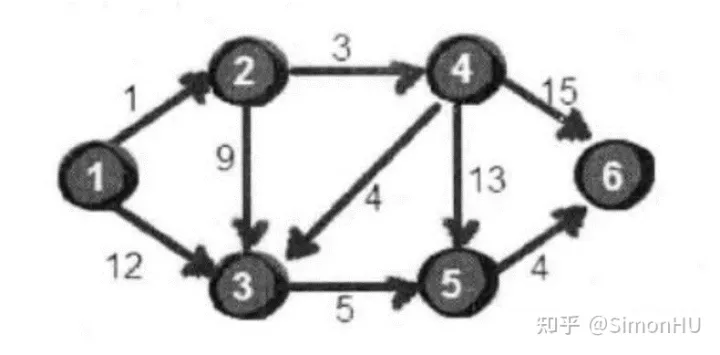
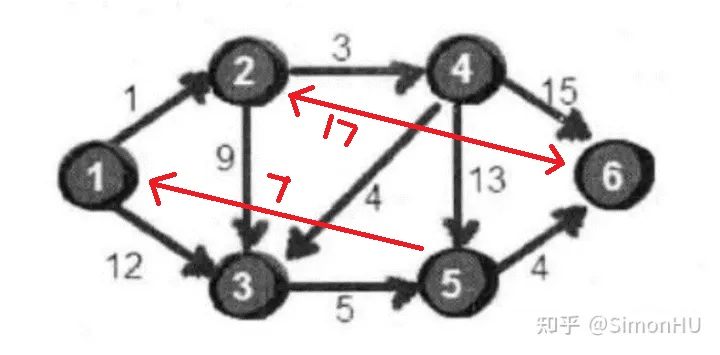
add FindShortestPathByBackTracking

Changed region(s): [[0.3972, 0.2479, 0.7944, 0.4958], [0.1833, 0.4648, 0.55, 0.6817], [0.55, 0.6817, 0.6111, 0.7127]]

diff --git a/Algo2/Graph/GraphAdjacentMatrix.cs b/Algo2/Graph/GraphAdjacentMatrix.cs
@@ -33,6 +33,50 @@ namespace Algo2.Graph
             }
         }
 
+        public float FindShortestPathByBackTracking(int start, int end)
+        {
+            if (start < 0 || end < 0 || start >= _matrix.GetLength(0) || end >= _matrix.GetLength(1))
+            {
+                return -1;
+            }
+
+            var result = float.MaxValue;
+            var isVisited = new bool[_matrix.GetLength(0), _matrix.GetLength(1)];
+            var paths = new List<List<int>>();
+            var currentPath = new List<int>() { start + 1};
+            var currentPathWeight = new List<float>();
+
+            FindShortestPathByBackTrackingHelp(start, end, currentPath, currentPathWeight, paths, isVisited, ref result);
+            return result;
+        }
+
+        private void FindShortestPathByBackTrackingHelp(int currentNodeIndex, int end, List<int> currentPath, 
+            List<float> currentPathWeight, List<List<int>> paths, bool[,] isVisited, ref float result)
+        {
+            if (currentNodeIndex == end)
+            {
+                paths.Add(currentPath.ToArray().ToList());
+                result = Math.Min(result, currentPathWeight.Sum());
+                return;
+            }
+
+            for(var columnIndex = 0; columnIndex < _matrix.GetLength(1); columnIndex++)
+            {
+                if (isVisited[currentNodeIndex, columnIndex] == false && _matrix[currentNodeIndex, columnIndex] != null)
+                {
+                    isVisited[currentNodeIndex, columnIndex] = true;
+                    currentPath.Add(columnIndex + 1);
+                    currentPathWeight.Add(_matrix[currentNodeIndex, columnIndex].GetValueOrDefault());
+
+                    FindShortestPathByBackTrackingHelp(columnIndex, end, currentPath, currentPathWeight, paths, isVisited, ref result);
+
+                    isVisited[currentNodeIndex, columnIndex] = false;
+                    currentPath.RemoveAt(currentPath.Count - 1);
+                    currentPathWeight.RemoveAt(currentPathWeight.Count - 1);
+                }
+            }
+        }
+
         public bool IsBiPartite()
         {
             var count = _matrix.GetLength(0);

diff --git a/Algo2Tests/Graph/GraphAdjacentMatrixTests.cs b/Algo2Tests/Graph/GraphAdjacentMatrixTests.cs
@@ -31,12 +31,22 @@ namespace Algo2.Graph.Tests
             result.AddEdge(0, 2, 12);
             result.AddEdge(1, 2, 9);
             result.AddEdge(1, 3, 3);
+            result.AddEdge(1, 5, 17, true);
             result.AddEdge(2, 4, 5);
             result.AddEdge(3, 2, 4);
             result.AddEdge(3, 4, 13);
             result.AddEdge(3, 5, 15);
+            result.AddEdge(4, 0, 7);
             result.AddEdge(4, 5, 4);
             return result;
+        }
+
+        [TestMethod()]
+        public void FindShortestPathByBackTrackingTest()
+        {
+            var graph = CreateGraphForTestingMap();
+            var actual = graph.FindShortestPathByBackTracking(0, 5);
+            Assert.AreEqual(17, actual);
         }
     }
 }
